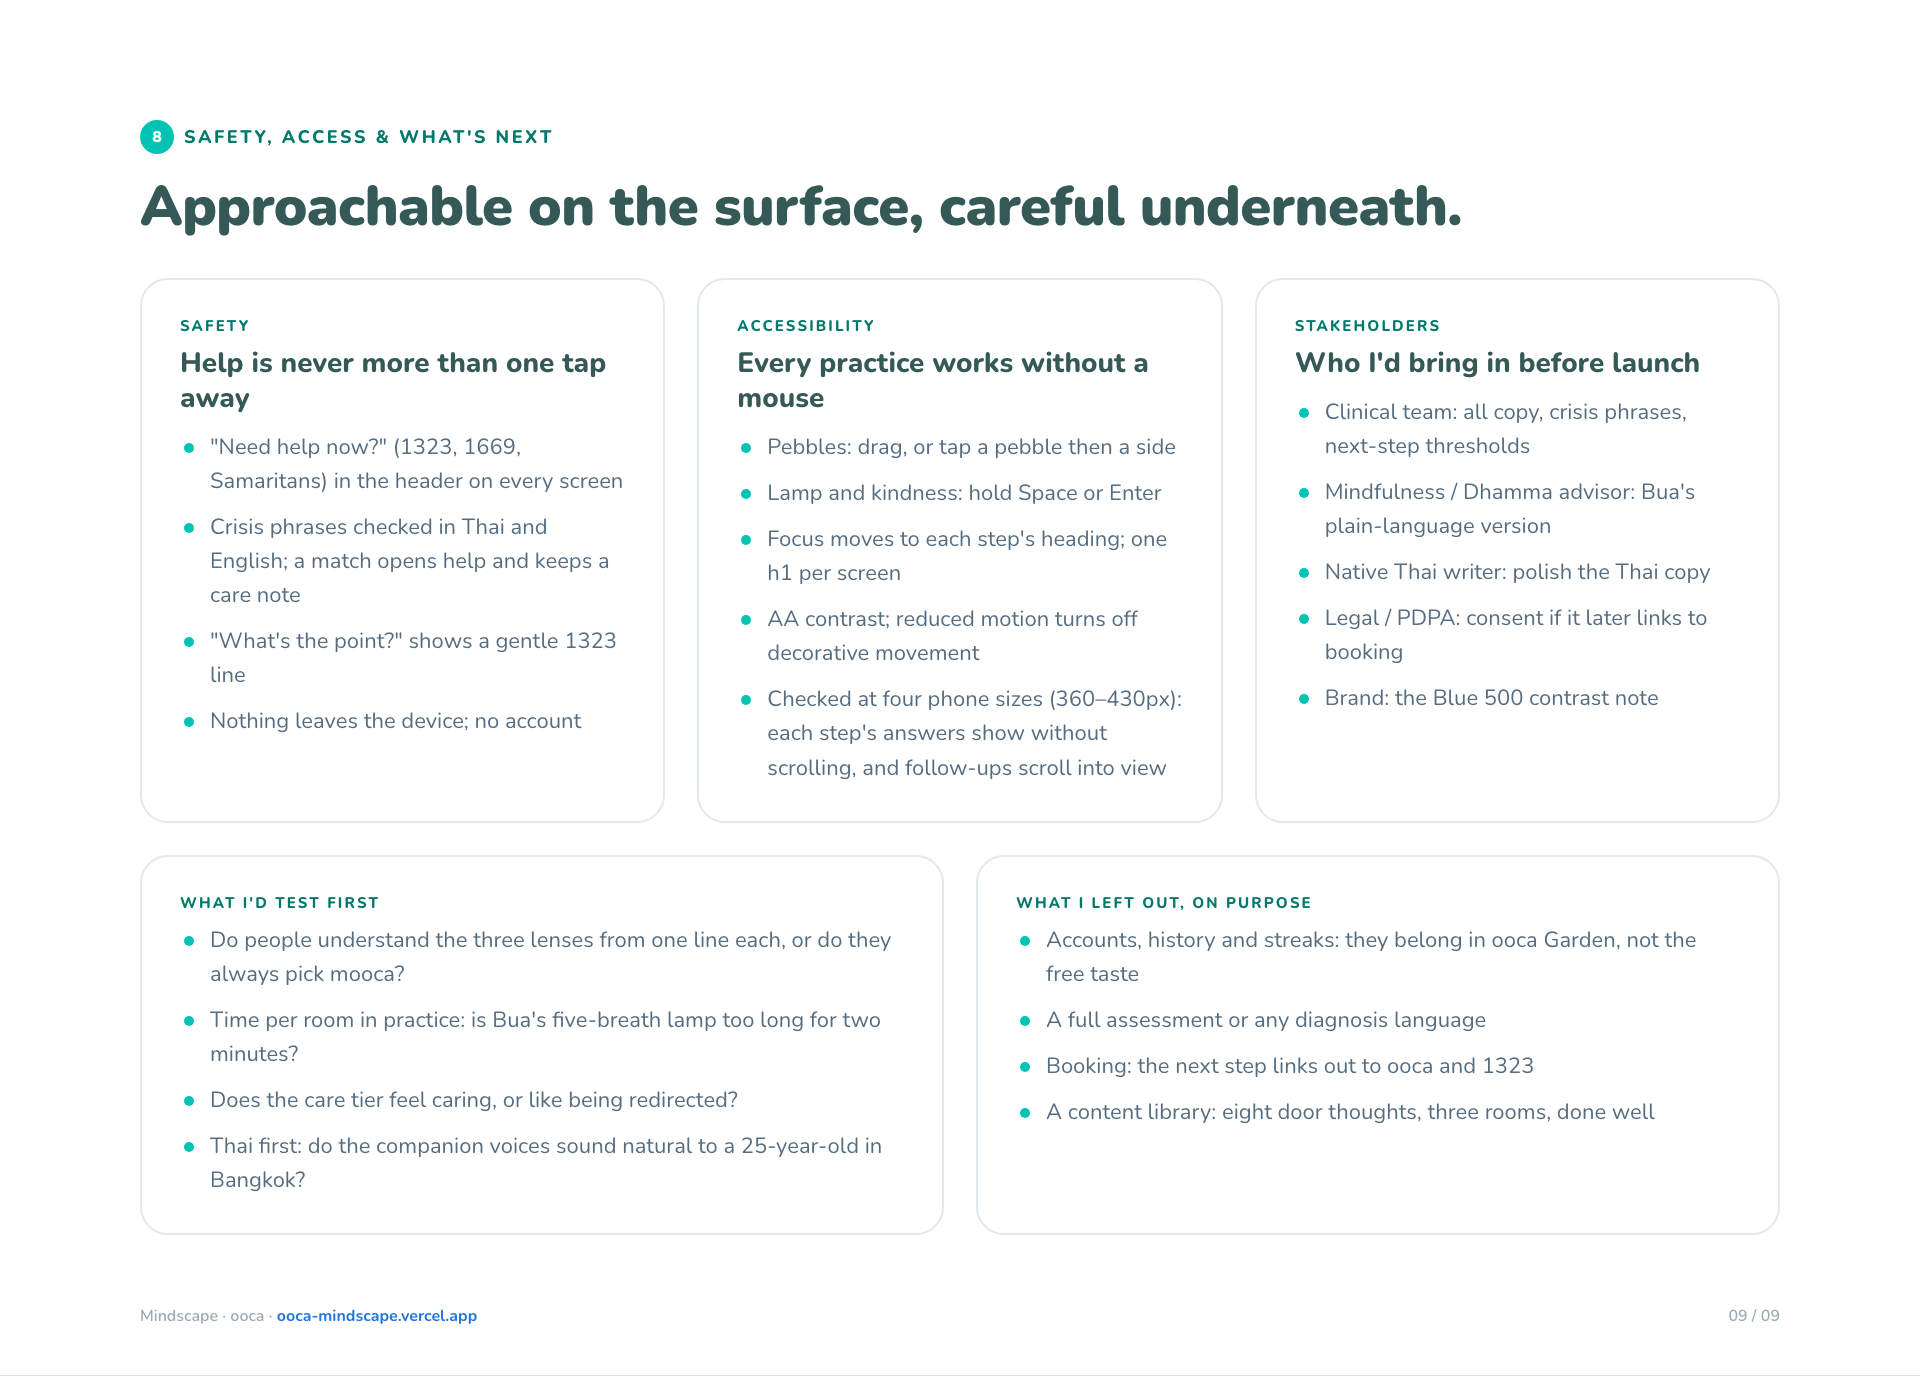
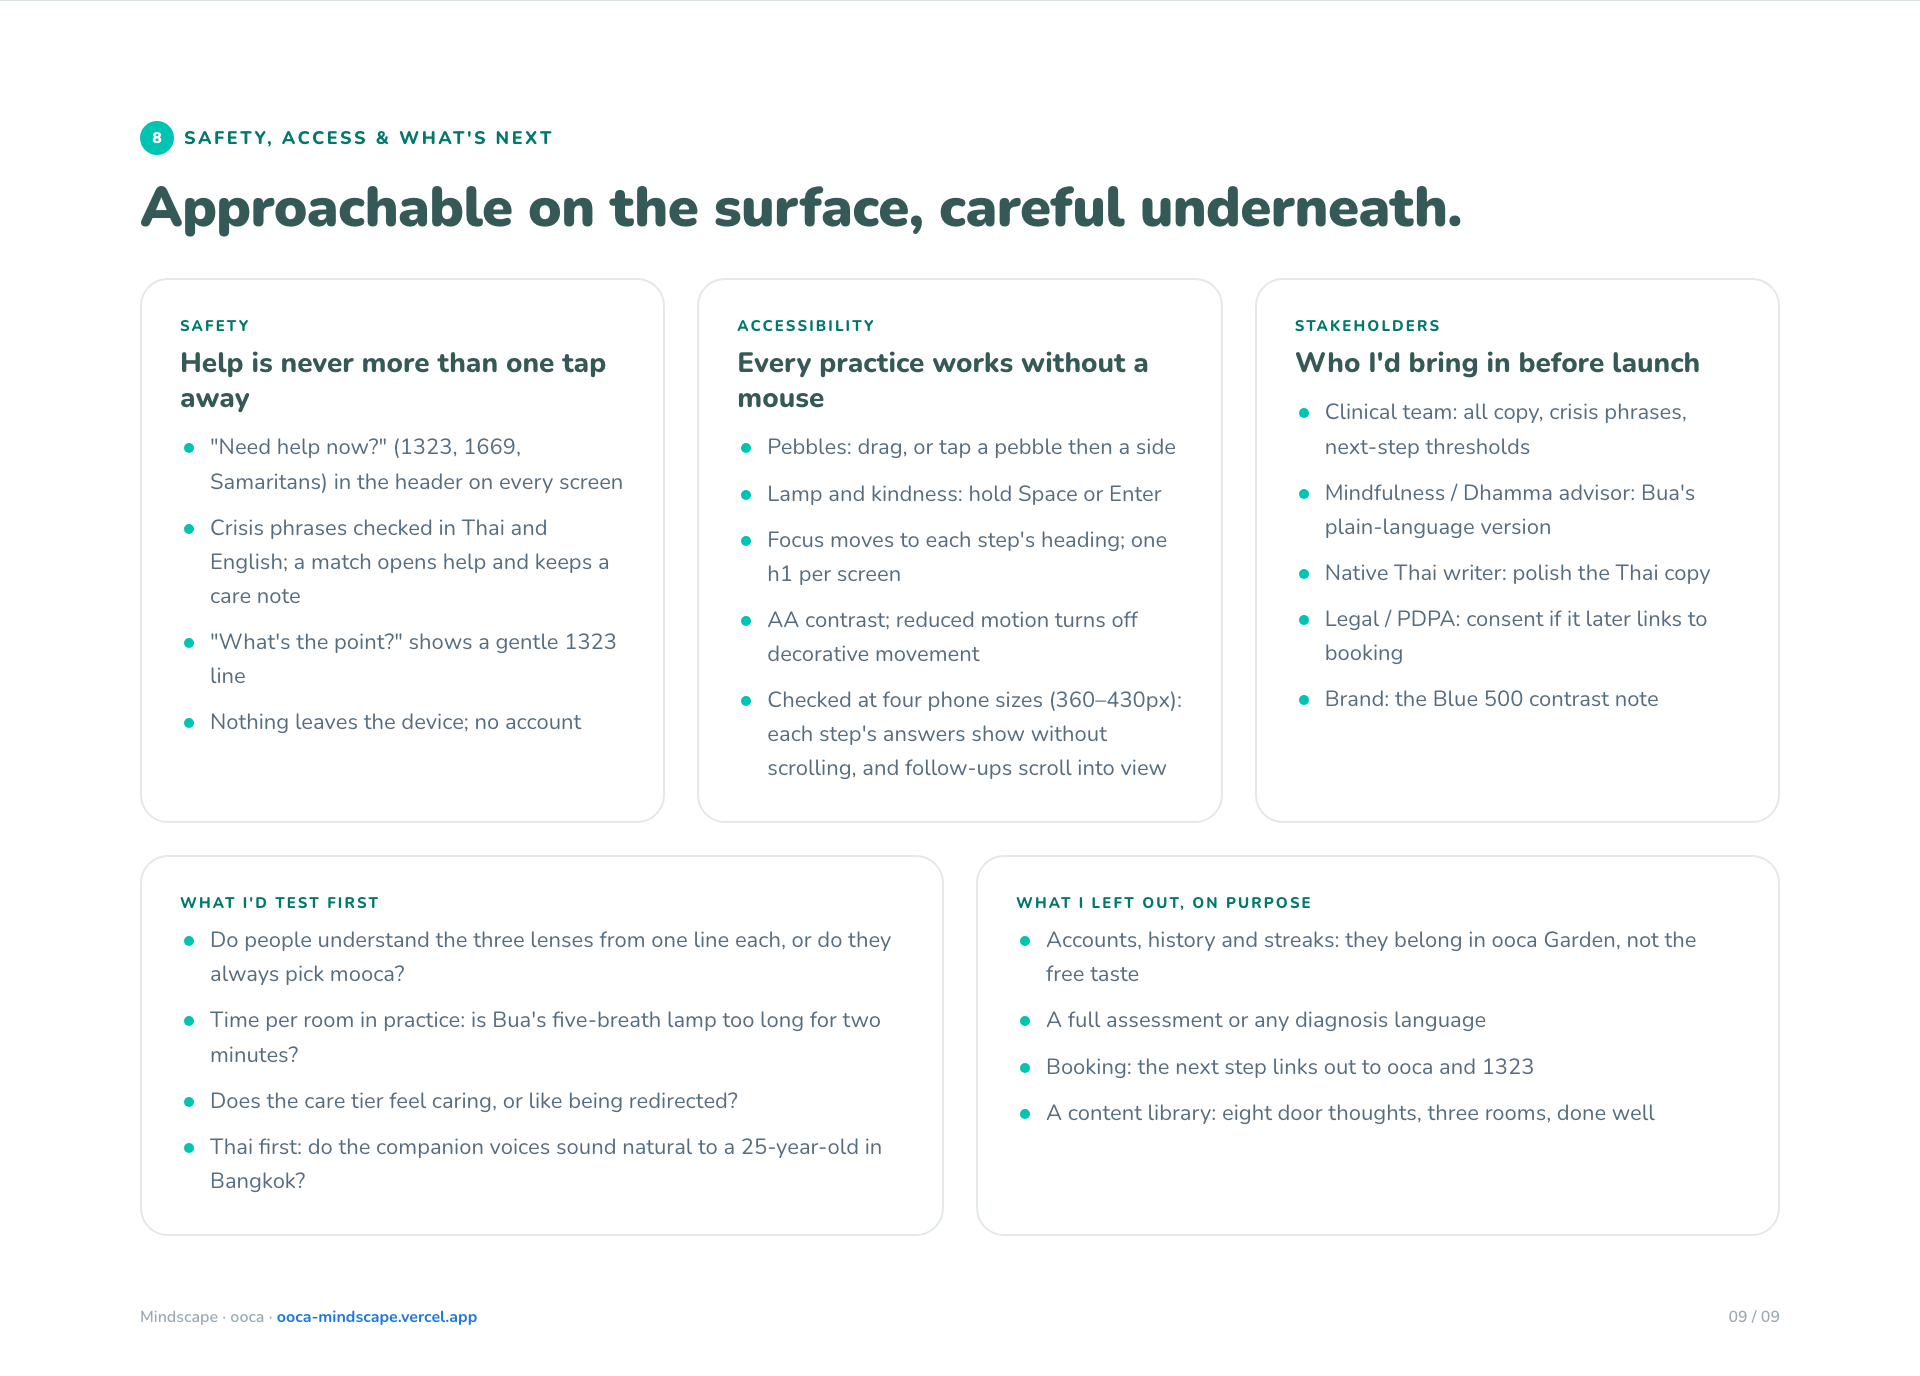
Board: balance the visual system section into three columns

diff --git a/public/board/index.html b/public/board/index.html
@@ -133,6 +133,15 @@ ul.clean li{padding-left:30px;position:relative}
 ul.clean li:before{content:"";position:absolute;left:4px;top:13px;width:10px;height:10px;border-radius:50%;background:var(--turq-500)}
 .shot{border-radius:24px;overflow:hidden;box-shadow:0 20px 50px -20px rgba(0,80,72,.3);background:#fff}
 .shot img{display:block;width:100%}
+.sys{grid-template-columns:1fr 1fr 1fr;gap:48px;align-items:start}
+.sys__sub{font-size:19px;margin:6px 0 22px}
+.sys .sw{grid-template-columns:repeat(3,1fr);gap:14px;margin-top:0}
+.sys .sw div{height:128px}
+.sys__note{margin-top:18px;font-size:18px}
+.sys .type{grid-template-columns:1fr;gap:18px;margin-top:0}
+.type__aa{font-weight:900;font-size:64px;color:var(--turq-gray-1);line-height:1.05;margin:4px 0 8px}
+.sys__phones{display:grid;grid-template-columns:1fr 1fr;gap:20px}
+.sys__phones .phone{width:100%;border-radius:30px}
 </style>
 <script src="https://mcp.figma.com/mcp/html-to-design/capture.js" async></script>
 </head>
@@ -379,29 +388,34 @@ ul.clean li:before{content:"";position:absolute;left:4px;top:13px;width:10px;hei
   <h2>Built on the ooca CI, extended with two new friends.</h2>
   <div class="shot" style="margin-top:40px"><img src="screens/x-sheet-crop.png" alt=""></div>
 
-  <div class="grid" style="grid-template-columns:1.25fr 1fr;gap:48px;margin-top:56px">
+  <div class="grid sys" style="margin-top:64px">
     <div>
-      <h3>Colour: one accent per companion, one colour for action</h3>
+      <h3>Colour</h3>
+      <p class="sys__sub">One accent per companion, one colour for action</p>
       <div class="sw">
         <div style="background:#00c4b3;color:#fff">Turquoise 500<small>mooca · brand</small></div>
         <div style="background:#f9a000;color:#3d2600">Marigo 500<small>Hin</small></div>
         <div style="background:#ef7773;color:#fff">Flamingo 500<small>Bua</small></div>
         <div style="background:#1f77df;color:#fff">Blue 500<small>every button</small></div>
-        <div style="background:#00796b;color:#fff">#00796b<small>turquoise text, AA</small></div>
+        <div style="background:#00796b;color:#fff">#00796b<small>turquoise text</small></div>
         <div style="background:#355956;color:#fff">Turq gray 1<small>headings</small></div>
       </div>
-      <p style="margin-top:18px;font-size:19px">The CI's turquoise text colour (#009688) is 3.7:1 on white. I use a deeper shade of the same hue (#00796b, 5.3:1) to meet WCAG AA. Blue 500 with white text is 4.4:1, just under AA at 16px: flagged for the brand team.</p>
+      <p class="sys__note">The CI's turquoise text (#009688) is 3.7:1 on white, so text uses a deeper shade of the same hue (#00796b, 5.3:1) to meet WCAG AA. Blue 500 with white text is 4.4:1, just under AA at 16px: flagged for the brand team.</p>
     </div>
     <div>
       <h3>Type</h3>
+      <p class="sys__sub">The CI's two families, one per language</p>
       <div class="type">
-        <div class="card"><span class="k">English</span><div style="font-weight:900;font-size:56px;color:var(--turq-gray-1);line-height:1">Aa</div><p>Gotham Rounded per CI; Nunito as the web fallback</p></div>
-        <div class="card"><span class="k">Thai</span><div style="font-family:Prompt;font-weight:600;font-size:56px;color:var(--turq-gray-1);line-height:1">กข</div><p>Prompt, per CI</p></div>
+        <div class="card"><span class="k">English</span><div class="type__aa">Aa</div><p>Gotham Rounded per CI; Nunito as the web fallback</p></div>
+        <div class="card"><span class="k">Thai</span><div class="type__aa" style="font-family:Prompt;font-weight:600">กข</div><p>Prompt, per CI</p></div>
       </div>
-      <h3 style="margin-top:34px">Bilingual from the start</h3>
-      <div class="row" style="gap:24px;margin-top:20px">
-        <div class="phone phone--sm" style="width:200px;border-radius:28px"><img src="screens/th-landing.png" alt=""></div>
-        <div class="phone phone--sm" style="width:200px;border-radius:28px"><img src="screens/th-voices.png" alt=""></div>
+    </div>
+    <div>
+      <h3>Bilingual from the start</h3>
+      <p class="sys__sub">Every line in Thai and English; detected, and switchable</p>
+      <div class="sys__phones">
+        <div class="phone"><img src="screens/th-landing.png" alt=""></div>
+        <div class="phone"><img src="screens/th-voices.png" alt=""></div>
       </div>
     </div>
   </div>
